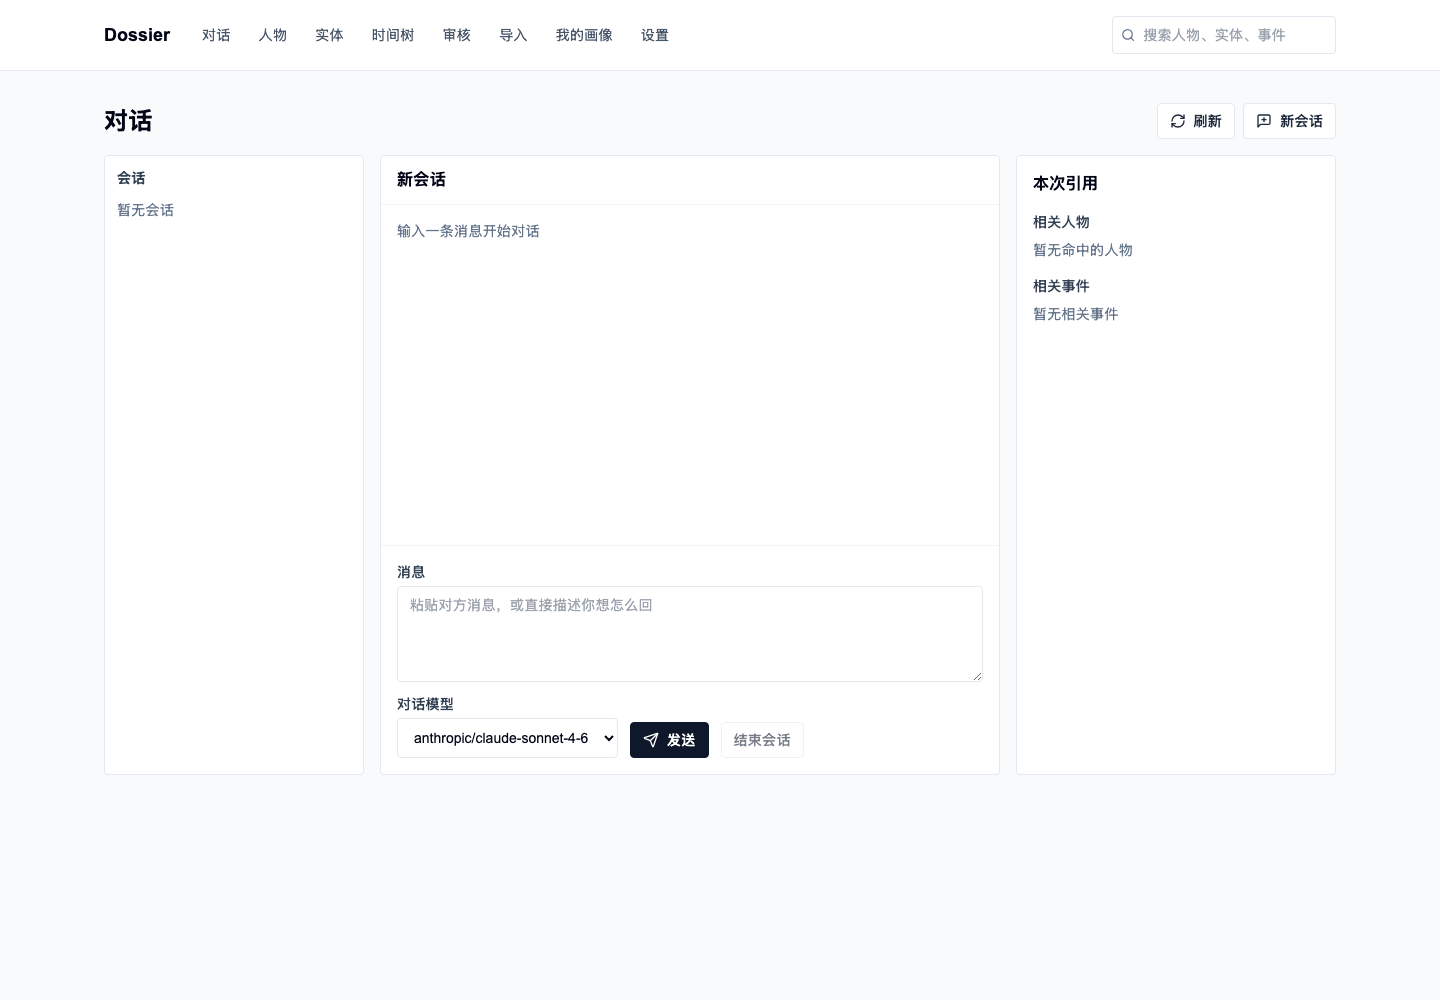
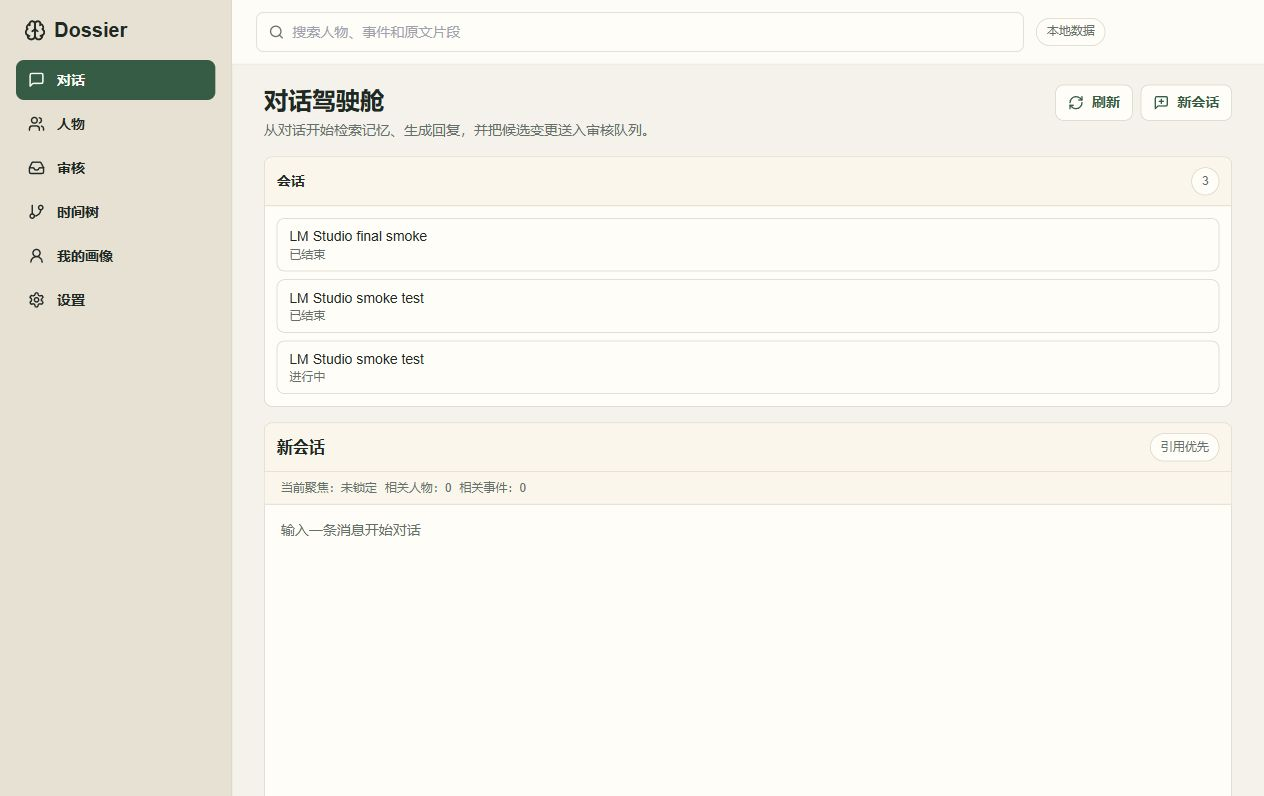
docs: document v2 UI and refreshed screenshots

diff --git a/README.md b/README.md
@@ -1,6 +1,6 @@
 # Dossier
 
-Local-first relationship dossier for Chinese interpersonal communication.
+Dossier 是一个本地优先的人际关系档案系统，用来沉淀人物、事件、事实、偏好和沟通上下文。当前实现是 **v1 数据/API 底座 + v2 WebUI 表层**：主界面收敛到 Chat、People、Inbox、Timeline、Self、Settings。
 
 ## Quickstart
 
@@ -10,17 +10,43 @@ cd dossier && npm install
 npm start
 ```
 
-Frontend: `http://localhost:3000`
+有 Docker 时，`npm start` 会优先用 Docker Compose 启动；否则会使用本地 `.venv`。默认地址：
 
-Backend API docs: `http://localhost:8000/docs`
+- Frontend: `http://localhost:3000`
+- Backend API docs: `http://localhost:8000/docs`
+
+## LM Studio
+
+Dossier 通过 OpenAI-compatible 接口连接 LM Studio。Docker 部署时，宿主机上的 LM Studio API 通常这样配置：
+
+```env
+OPENAI_API_KEY=lm-studio
+OPENAI_API_BASE=http://host.docker.internal:1234/v1
+```
+
+改完 `.env` 后重新运行 `npm start`，再到 Settings 里选择聊天模型和抽取模型。
 
 ## Screenshots
 
+### Chat
+
 ![Chat](docs/screenshots/chat.png)
+
+### People
+
+![People](docs/screenshots/people.png)
+
+### Inbox
 
 ![Inbox](docs/screenshots/inbox.png)
 
+### Timeline
+
 ![Timeline](docs/screenshots/timeline.png)
+
+### Settings
+
+![Settings](docs/screenshots/settings.png)
 
 ## Common Commands
 
@@ -38,21 +64,21 @@ scripts/install-backup-cron.sh --dry-run
 
 ### 路径校验失败
 
-Run `pwd` from the repository root and make sure `.env`, `data/`, `backend/`, `frontend/`, and `mcp/` are in the same directory. If the SQLite path is wrong, remove the bad `DATABASE_URL` override from `.env` and rerun `npm start`.
+在仓库根目录运行 `pwd`，确认 `.env`、`data/`、`backend/`、`frontend/`、`mcp/` 在同一层。如果 SQLite 路径不对，删除 `.env` 里错误的 `DATABASE_URL` 覆盖项，然后重新运行 `npm start`。
 
 ### API key 不识别
 
-Provider keys are read from `.env` / environment variables: `ANTHROPIC_API_KEY`, `OPENAI_API_KEY`, and `GOOGLE_API_KEY`. Restart `npm start` after editing `.env`. Extraction and chat models are configured separately in Settings.
+Provider key 从 `.env` 或环境变量读取：`ANTHROPIC_API_KEY`、`OPENAI_API_KEY`、`GOOGLE_API_KEY`。LM Studio 使用 OpenAI-compatible 配置时，还需要设置 `OPENAI_API_BASE`。修改 `.env` 后重启 `npm start`。
 
 ### MCP 装不上
 
-Run `npm install` first so `.venv` and MCP dependencies exist, then run:
+先运行 `npm install`，确保 `.venv` 和 MCP 依赖已安装，然后运行：
 
 ```bash
 scripts/install-mcp.sh --write-claude-config
 ```
 
-Restart Claude Desktop after writing config. If tools still do not appear, verify stdio directly:
+写入配置后重启 Claude Desktop。如果工具仍未出现，直接验证 stdio：
 
 ```bash
 .venv/bin/python scripts/verify-mcp-stdio.py